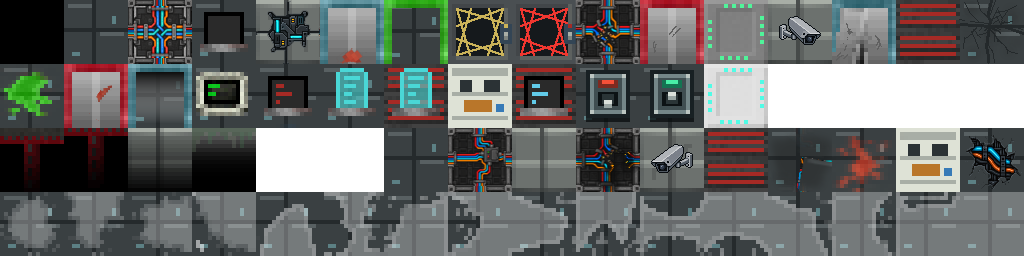
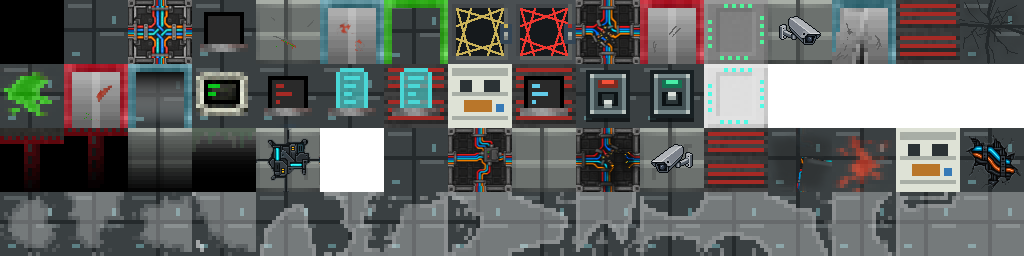
Updated terrain tilesets.

Changed region(s): [[0.25, 0.5, 0.3125, 0.75], [0.25, 0.0312, 0.3438, 0.2188], [0.3125, 0.1875, 0.375, 0.25]]

diff --git a/PLAN.md b/PLAN.md
@@ -65,10 +65,10 @@ Use this as the working backlog for the next sprint. Put rough ideas in Suggesti
 - [ ] DM3000 reskin
 - [ ] Hunter suit reskin
 - [ ] Heavy loader reskin
-- [ ] Security alternate tiles are too abundant - security cameras could be joined and this should take one of those panels. The alternate tile should just have some scuff marks
+- [x] Security alternate tiles are too abundant - security cameras could be joined and this should take one of those panels. The alternate tile should just have some scuff marks
 - [ ] Update common tiles across sets
-- [ ] Door in security blood spot is too ubiquitous, needs to be more subtle
-- [ ] Habitation graphic overhaul
+- [x] Door in security blood spot is too ubiquitous, needs to be more subtle
+- [x] Habitation graphic overhaul
 - [ ] Hologram emitter token reskin
 
 ## Decisions
